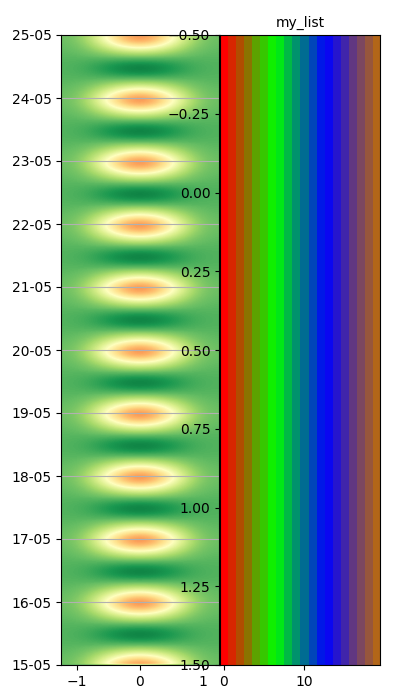
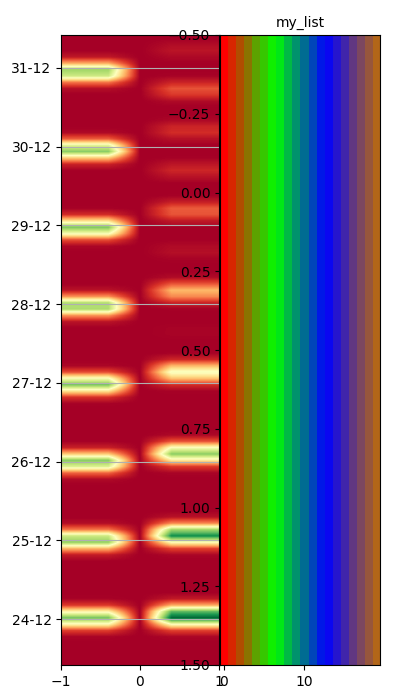
plot color of the day++

diff --git a/src/mathplot_package/plot_astro_summary.py b/src/mathplot_package/plot_astro_summary.py
@@ -21,7 +21,7 @@ def plot_color_of_the_days(observer=None, days=1, file_name="plot_astro_summary.
     end_date = observer.utc + timedelta(days=days)
     # end_date = mdates.epoch2num(end_date)
     # print(begin_date, " - ", end_date)
-    dates = np.linspace(begin_date.timestamp(), end_date.timestamp(), 1000)
+    dates = np.linspace(begin_date.timestamp(), end_date.timestamp(), 100)
     # dates = mdates.epoch2num(dates)
 
     # begin_date = datetime.now()
@@ -35,11 +35,13 @@ def plot_color_of_the_days(observer=None, days=1, file_name="plot_astro_summary.
     moon_lat = []
     # sun_dist = []
     # moon_dist = []
-    sun_angle = [0,]
-
+    sun_angle = []
+    moon_angle = []
+    lbl_dates = []
     for cur_dt in dates:
 
         observer.unaware_update_utc((datetime.fromtimestamp(cur_dt)))
+        lbl_dates.append(mdates.date2num(observer.unaware))
         # print(cur_dt, " | ", observer.utc, " / ", observer.place.date)
         # ecl_dict, ecl_text = zd.main_zodiac_sun_moon(observer=observer)
         # sun_lon.append(ecl_dict["sun_lon"])
@@ -53,42 +55,52 @@ def plot_color_of_the_days(observer=None, days=1, file_name="plot_astro_summary.
         # print(observer)
 
         sun_dict, sun_text = sr.main_sun_rise_sett(observer=observer)
-        alt_dict, alt_text = sr.main_sun_altitude(observer=observer)
 
-        # sun_angle.append(sun_dict["sun_rise"])
+        alt_dict, alt_text = sr.main_sun_altitude(observer=observer)
         sun_angle.append(alt_dict["sun_angle"])
+
+        alt_dict, alt_text = zd.main_moon_altitude(observer=observer)
+        moon_angle.append(alt_dict["moon_angle"])
+
         # print(cur_dt, " | ", observer.utc, " \ ", observer.place.date)
 
-    # print(sun_angle)
+
+    print(lbl_dates)
     # print(sun_lat)
     # print(moon_lon)
     # print(sun_angle.__len__())
 
-    y = np.array(sun_angle)
-    # y = np.power(sun_angle, 2)
+    # y = np.array(sun_angle)
+    y = np.power(sun_angle, 4)
+    # y2 = np.array(moon_angle)
+    y2 = np.power(moon_angle, 4)
 
-    fig, axs = plt.subplots(nrows=1, ncols=2, figsize=(4, 7))
+    fig, axes = plt.subplots(nrows=1, ncols=2, figsize=(4, 7))
     fig.subplots_adjust(top=0.95, bottom=.05, left=0.15, right=.95, wspace=0.00)
     # ************************************************************************
 
     arr_size = len(y)
-    Z = np.zeros(arr_size * 3).reshape(arr_size, 3)
-    dates = np.ones(arr_size)
-    # Z[:, 0] = y
+    gcolumn = 5
+    Z = np.zeros(arr_size * gcolumn).reshape(arr_size, gcolumn)
+    Z[:, 0] = y
     Z[:, 1] = y
-    # Z[:, 2] = y
+    # Z[:, 2] = y2
+    Z[:, 3] = y2
+    Z[:, 4] = y2
     # print(Z)
 
-    axs[0].grid(axis='y')
-    data_offset = 1600   # observer.utc.timestamp()
-    im = axs[0].imshow(Z, interpolation='bicubic',  # 'nearest', 'bilinear', 'bicubic'
+    axes[0].grid(axis='y')
+    mdate_begin = lbl_dates[0]
+    mdate_end = lbl_dates[-1]  # days+data_offset
+    im = axes[0].imshow(Z, interpolation='bilinear',  # 'nearest', 'bilinear', 'bicubic'
                     cmap=cm.RdYlGn,  # gray
+                    # cmap="gray",
                     origin='lower',
-                    extent=[-days / 4, days / 4, -days+data_offset, days+data_offset],
+                    extent=[-days / 4, days / 4, mdate_begin, mdate_end],
                     vmax=Z.max(), vmin=Z.min())
 
-    axs[0].yaxis.set_major_formatter(mdates.DateFormatter('%d-%m'))
-    axs[0].yaxis.set_major_locator(mdates.DayLocator(interval=1))
+    axes[0].yaxis.set_major_formatter(mdates.DateFormatter('%d-%m'))
+    axes[0].yaxis.set_major_locator(mdates.DayLocator(interval=1))
 
     # /////////////////////////////////////////////////////////////
     # Create the colormap
@@ -98,8 +110,8 @@ def plot_color_of_the_days(observer=None, days=1, file_name="plot_astro_summary.
     gradient = np.linspace(0, 1, 20)
     gradient = np.vstack((gradient, gradient))
 
-    axs[1].set_title(f'my_list', fontsize=10)
-    axs[1].imshow(gradient, aspect='auto', cmap=my_cmap)
+    axes[1].set_title(f'my_list', fontsize=10)
+    axes[1].imshow(gradient, aspect='auto', cmap=my_cmap)
 
     res = plt.savefig(file_name)
     print(res)
@@ -121,4 +133,4 @@ if __name__ == '__main__':
     text += str(observer_obj)
     # ##########################################################
 
-    plot_color_of_the_days(observer=observer_obj, days=5, file_name="plot_astro_summary.png")
+    plot_color_of_the_days(observer=observer_obj, days=4, file_name="plot_astro_summary.png")

diff --git a/src/ephem_routines/ephem_package/zodiac_phase.py b/src/ephem_routines/ephem_package/zodiac_phase.py
@@ -189,6 +189,29 @@ def main_zodiac_sun_moon(observer=None):
     return result_dict, result_text
 
 
+def main_moon_altitude(observer=None):
+
+    result_text = ""
+    result_text += "\n"
+
+    observer.unaware_update_utc()
+    moon = ephem.Moon(observer.place)
+    moon.compute(observer.place)
+    # ===============================================
+
+    # print(moon.alt, observer.utc)
+    # u_alt = ephem.unrefract(observer.place.pressure, observer.place.temperature, sun.alt)
+    # print(u_alt)
+
+    result_dict = {}
+    result_dict["moon_angle"] = round(float(moon.alt) * 57.2957795, 3)
+    del moon
+
+    result_text += "\n" + "moon_angle: " + str(result_dict["moon_angle"])
+
+    return result_dict, result_text
+
+
 def getInfo(body):
 
     str_out = "\n"
@@ -255,8 +278,12 @@ if __name__ == "__main__":
     # ###########################################################################
 
     zodiac_dict, zodiac_text = main_zodiac_sun_moon(observer=observer_obj)
-    pprint.pprint(zodiac_dict)
+    # pprint.pprint(zodiac_dict)
     text += zodiac_text
+
+    alt_dict, alt_text = main_moon_altitude(observer=observer_obj)
+    text += alt_text
+
     print(text)
 
     # # ---------------------------------------------------------------------
